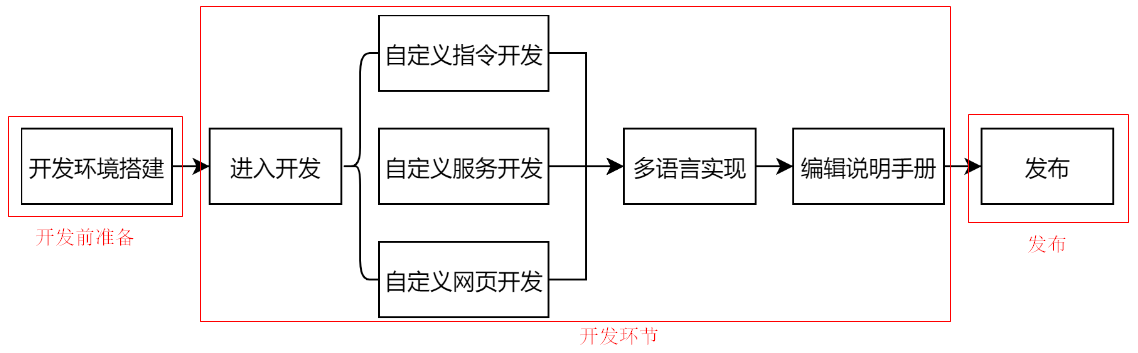
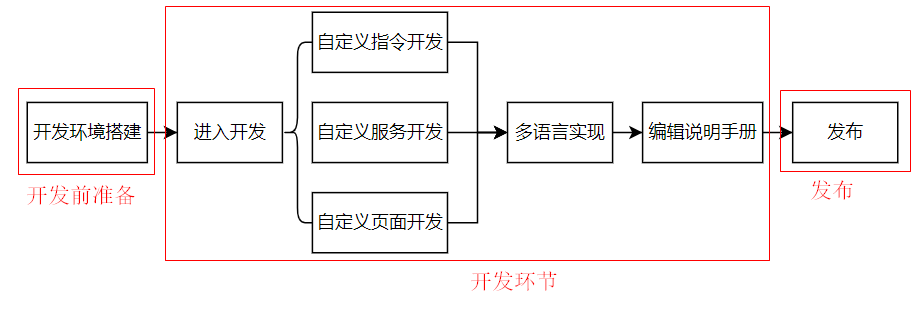
更新10.27

Changed region(s): [[0.0, 0.0, 1.0, 0.9871], [0.9101, 0.6677, 0.9404, 0.7258]]

diff --git a/docs/.vuepress/config.js b/docs/.vuepress/config.js
@@ -69,7 +69,7 @@ module.exports = {
                         '/guide/addOn/demo_LiftKit',
                         '/guide/addOn/demo_DHGripper',
                         '/guide/addOn/multi-language',
-                        '/guide/addOn/user guide',
+                        '/guide/addOn/userguide',
                         '/guide/addOn/release',
                         
                     ], 

diff --git a/docs/guide/addOn/BeforeYouStart.md b/docs/guide/addOn/BeforeYouStart.md
@@ -7,17 +7,18 @@ sidebarDepth: 1
 
 **该页面旨在为AddOn开发者提供AddOn开发的学习路径指南。**
 
-## 开发资料获取
+## 开发资源获取
 ---
-这里将AddOn开发中必备并且会更新的内容集中在一起，方便之后开发者获取最新版本内容。
-在后续章节需要用到下面内容的地方会再次给出链接，第一次阅读到这里时可以跳过该部分继续阅读。
+开发AddOn需要一系列的资源支持，此处将AddOn开发中必备的资源集中在一起，并将进行持续更新，方便开发者获取完整的、最新的资源版本内容。
+
+在后续章节需要用到下面内容的地方会再次给出链接，此处只是做一个提示及汇总。
 1. [JAKA虚拟机](https://github.com/JakaCobot/JAKASim)
 2. [AddOn套件包](https://github.com/JakaCobot/jaka_addon_kit/releases)
 3. AddOn[开发模板](https://github.com/JakaCobot/jaka_addon_kit)
 4. 教程中包含的[Demo](https://github.com/JakaCobot/jaka_addon_kit)
 
-:::tip
-环境包中会附带与之匹配的最新App和控制器版本。
+:::tip 提示
+套件包中会附带与之匹配的最新App和控制器版本。
 :::
 
 
@@ -28,21 +29,25 @@ sidebarDepth: 1
 除此之外，如有使用node-red、JavaScript、HTML5、CSS3等编程语言的经验，将更有助于用户更好地开发、使用AddOn。
 
 
-## 了解如何开发AddOn
+## AddOn开发教程一览
 ---
 
+### 入门教程
 如果您不知道从哪里开始，先学习下面的入门教程吧：
 
-* 在[快速入门:point_left:](./QuickStart.md)章节中，你可以快速了解AddOn开发的完整流程。
-* 按照[AddOn开发环境搭建:point_left:](./environment.md)中的步骤，搭建AddOn开发环境。
+* 在[快速入门:point_left:](./QuickStart.md)章节快速了解AddOn开发的完整流程。
+* 按照[AddOn开发环境搭建:point_left:](./environment.md)中的步骤搭建AddOn开发环境。
 * 通过制作 "[JAKA_Command:point_left:](./JAKA_Command.md)"学习自定义指令类型AddOn开发的基本流程和规则。
 * 通过制作 "[JAKA_Serve:point_left:](./JAKA_Serve.md)"学习自定义服务类型AddOn开发的基本流程和规则。
 * 通过制作 "[JAKA_web:point_left:](./JAKA_web.md)"学习自定义网页类型AddOn开发的基本流程和规则。
 
-## 具体案例
+### 高级教程——具体案例
 ---
+入门教程的目的是让开发者明晰流程，所以只介绍了基础功能，缺乏实际的应用场景场景。
 
-在此基础之上，您可以选择一个具体场景的AddOn模板案例进行学习，它们可能包含了自定义指令、自定义服务、自定义网页中的至少两种，被称为复合型AddOn：
+高级教程则与具体场景案例相结合，让开发者能了解学习在入门指南中未提及或粗略提及的功能。
+
+所以，在了解了AddOn的基本开发流程后，您可以选择一个具体场景的AddOn模板案例进行学习，这些具体案例包含了自定义指令、自定义服务、自定义网页这三种功能中的至少两种，被称为复合型AddOn：
 <!-- demo还需要确定，至少包含三种不同类型的？目前只提供自定义指令块的详细的？ -->
 1. [Ewellix升降轴:point_left:](./demo_LiftKit.md) 
 <!-- 2. [大寰夹爪]()  -->

diff --git a/docs/guide/addOn/QuickStart.md b/docs/guide/addOn/QuickStart.md
@@ -24,33 +24,43 @@ sidebarDepth: 1
 
 具体信息详见[开发环境搭建:point_left:](./environment.md)
 
-* 通过制作 "[JAKA_Command:point_left:](./JAKA_Command.md)"学习自定义指令类型AddOn开发的基本流程和规则。
+<!-- * 通过制作 "[JAKA_Command:point_left:](./JAKA_Command.md)"学习自定义指令类型AddOn开发的基本流程和规则。
 * 通过制作 "[JAKA_Serve:point_left:](./JAKA_Serve.md)"学习自定义服务类型AddOn开发的基本流程和规则。
-* 通过制作 "[JAKA_web:point_left:](./JAKA_web.md)"学习自定义网页类型AddOn开发的基本流程和规则。
+* 通过制作 "[JAKA_web:point_left:](./JAKA_web.md)"学习自定义网页类型AddOn开发的基本流程和规则。 -->
 
 ## 进入开发环节
 ---
 
-如前所述，JAKA AddOn有三个并行的功能，即下列三种。一个AddOn可以包含多种功能，但至少会包含其中的一种功能。
+在完成环境搭建后，开发者就可自行选择自己所需要的功能，参照相应的文档进行开发。
+
+如前所述，JAKA AddOn有三个并行的功能，即自定义指令、自定义服务与自定义页面。
+
+一个AddOnXXX包可以包含一种或多种功能。
 
 <div align="center"><img width="1000"  src="../../../resource/ch/AddOn/QuickStart/AddOn的组成.png"/></div>
 
-在完成环境搭建后，开发者就可自行选择自己所需要的功能，参照相应的文档进行开发。
 
 ### 开发自定义指令
-自定义指令
+自定义指令功能支持开发者根据需求开发除JAKA App内标准指令之外的指令，具体内容及操作步骤详见：[自定义指令开发:point_left:](./JAKA_Command.md)
+
 ### 开发自定义服务
-
-### 开发自定义网页
-
+该功能还未开放，后续若有更新，将在此网页进行同步说明。
+### 开发自定义页面
+自定义页面功能支持开发者开发满足自定义需求的页面，具体内容及操作步骤详见：[自定义页面开发:point_left:](./JAKA_web.md)
 ### 多语言实现
+JAKA AddOn支持多语言功能，在完成AddOn某个包的功能开发后，可根据需要，自行进行多语言设置。
 
+目前支持的语种有：汉语、英语、及日语。
+
+具体信息详见：[多语言实现:point_left:](./multi-language.md)
 ### 编写说明手册
 此处的“说明手册”是指，开发者在使用JAKA AddOn功能开发出具体的应用或功能包后，需要将这些应用或功能包提供给自己的用户使用。此时便需要编写这些应用或功能包的说明手册。
 
 所以该步骤旨在为开发者明示此类说明手册的编写需要包含哪些内容、遵循哪些规则，并且以何种形式发布给自己的用户下载或使用。
 
-具体信息详见：
+具体信息详见[说明手册编写:point_left:](./userguide)
 
 ## 发布
----
+此处的“发布”是指，开发者在使用JAKA AddOn功能开发出具体的应用或功能包后，该如何将这些应用或功能包发布，以提供给自己的用户使用。
+
+目前“发布”功能还在开发中，后续完成后将在本网站将“发布”步骤的流程说明做同步更新。

diff --git a/docs/guide/addOn/multi-language.md b/docs/guide/addOn/multi-language.md
@@ -3,22 +3,30 @@ title: 多语言实现
 sidebarDepth: 1
 ---
 
+# 多语言实现
+
+JAKA AddOn支持多语言功能，在完成AddOn某个包的功能开发后，可根据需要，自行进行多语言设置。
+
+目前支持的语种有：汉语、英语、及日语。
+
+具体设置步骤如下：
+
 ## 自定义指令的多语言
 
 在制作自定义指令时，支持多语言的内容输入框右侧会有一个小地球图标，点击即可配置多语言。目前支持中英日三种语言。
 
 <div align="center"><img width="500"  src="../../../resource/ch/AddOn/multiLanguage/multiLan.png"/></div>
 
-## 自定义网页的多语言
+## 自定义页面的多语言
 
-当自定义网页在JAKA App中打开时，需要获取App当前的语言，进而切换用户自定义页面的语言与App一致。可以采用下面的方式实现该功能。
+当自定义页面在JAKA App中打开时，需要获取App当前的语言，进而切换用户自定义页面的语言与App一致。可以采用下面的方式实现该功能。
 
 
 <div align="center"><img width="500"  src="../../../resource/ch/AddOn/multiLanguage/getLanuage.png"/></div>
 
 在web的初始化js代码中调用方法JAKAController.jakaCall(result)，调用后JAKA App会回调window.changeLanuageHandler(language)函数，并将当前App语言传入。
 
-### 示例代码：
+**示例代码：**
 
 ```js
 

diff --git a/docs/guide/addOn/AddOn3.0.md b/docs/guide/addOn/AddOn3.0.md
@@ -22,9 +22,6 @@ JAKA AddOn是一款由JAKA提供的插件型软件产品，它支持用户开发
 * JAKA AddOn套件包：在开发环境搭建时需要使用的套件包，即jaka_addon_kit.tar.gz。
 * JAKA AddOnXXX包：开发完成后已经带有具体功能的功能包，如JAKA AddOn码垛包、JAKA AddOn大寰夹爪包、JAKA AddOn视觉引导包、JAKA AddOn传感器控制包等。
 工艺包、第三方设备的适配包
-
-* 包
-* 插件
 :::
 
 ## 为何需要使用AddOn 
@@ -85,7 +82,7 @@ AddOn包中一般都包含一个json文件，其中包含了在node-red中定义
 包含自定义页面的AddOn目录下一般会有前端工程的文件夹，例如client、dist。我们建议统一使用client作为前端工程文件夹。
 
 
-## 术语解释
+<!-- ## 术语解释 -->
 ---
 <!-- todo：hbs 术语解释放这里如何？ -->
 

diff --git a/docs/guide/addOn/environment.md b/docs/guide/addOn/environment.md
@@ -4,7 +4,7 @@ sidebarDepth: 1
 ---
 
 # 开发环境搭建
-**本页面旨在介绍如何搭建AddOn开发环境，开始前请先下载[*开发资料*](/guide/addOn/AddOn3.0.html#开发资料获取)。**
+**本页面旨在介绍如何搭建AddOn开发环境，开始前请先下载[*开发资料*:point_left:](/guide/addOn/AddOn3.0.html#开发资料获取)。**
 
 AddOn的开发需要依赖适当的开发环境，例如JAKA虚拟机以及相适配的软件、控制器版本。
 

diff --git a/docs/guide/addOn/demo_DHGripper.md b/docs/guide/addOn/demo_DHGripper.md
@@ -2,3 +2,5 @@
 title: 实际案例参考——大寰夹爪
 sidebarDepth: 1
 ---
+
+**敬请期待**

diff --git a/docs/guide/addOn/release.md b/docs/guide/addOn/release.md
@@ -2,3 +2,5 @@
 title: 发布
 sidebarDepth: 1
 ---
+
+**敬请期待**
